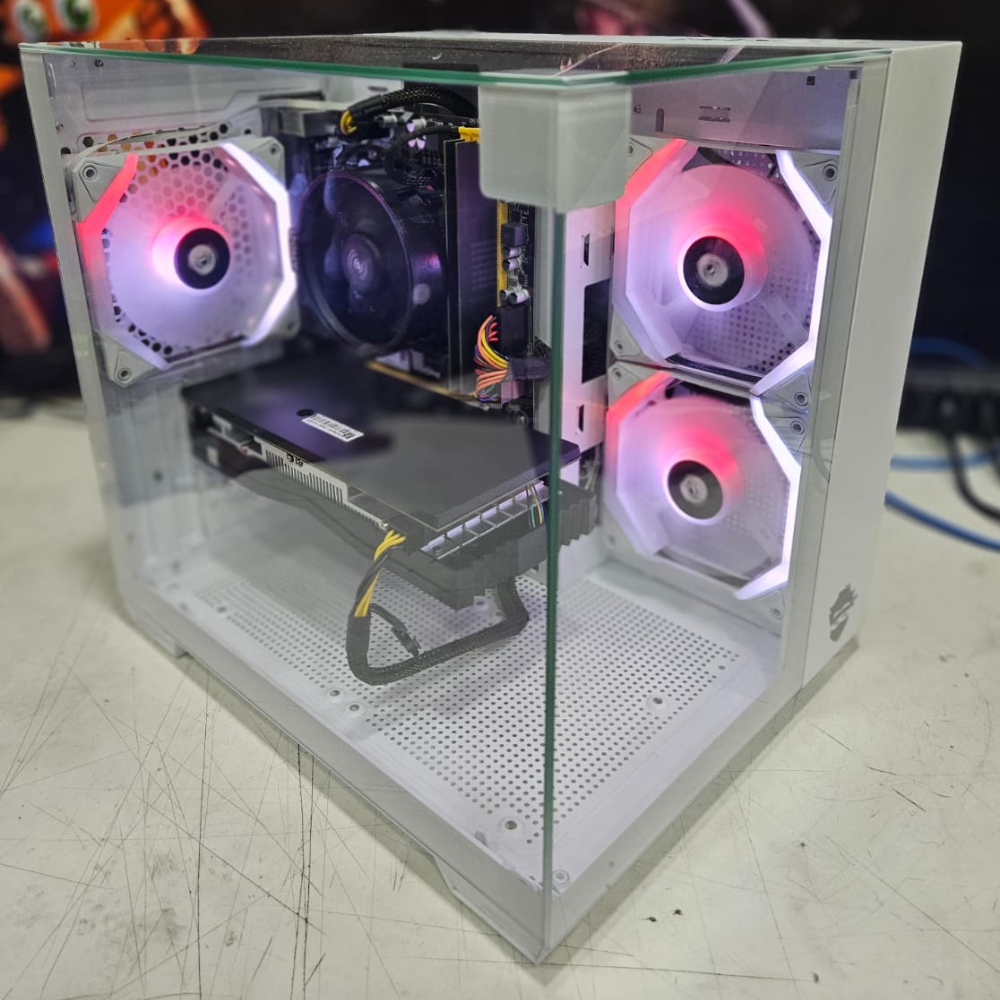
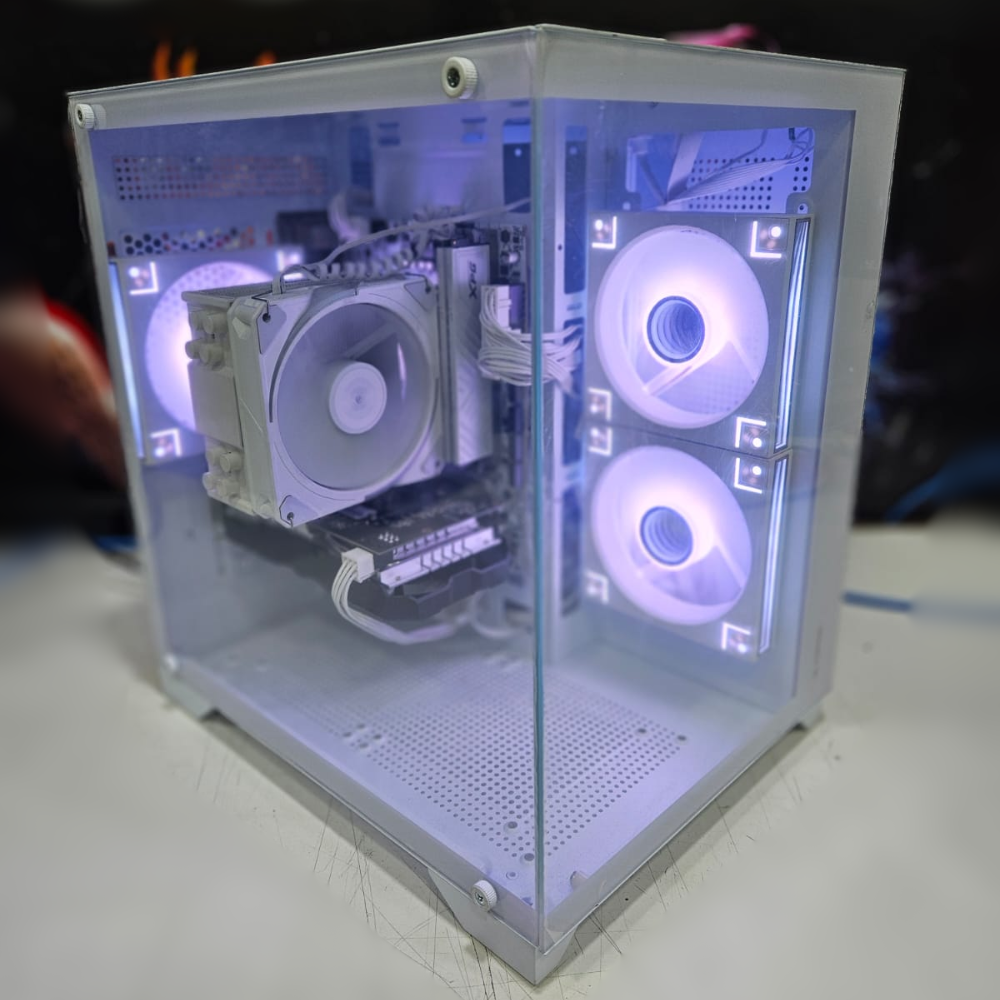
PC Custom WHITE UPDATED

diff --git a/src/routes/pcCustom/+page.svelte b/src/routes/pcCustom/+page.svelte
@@ -6,7 +6,7 @@
     {
       title: "PC AQUÁRIO NINJA BRANCO RYZEN 5500 + RX 580",
       image: "CUSTOM4690.png",
-      text: "*Máquina ideal para Jogos como:* \n🚔 GTA 5/RP\n🚗 FORZA HORIZON\n🔫 VALORANT\n🔫 WARZONE\n🔫 CS2\n🦙 FORTNITE\n\n*Processador:* RYZEN 5 5500\n*Placa Mãe:* A520 REVENGER\n*Memória RAM:* 2x8(16GB) 3200MHZ FNX DDR4\n*Placa de Vídeo:* RX 580 8GB\n*Armazenamento:* SSD NVME 500GB PRODRIVE\n*Gabinete:* 'AQUARIO' NINJA BRANCO C/3 FANS RGB\n*Fonte:* 500W FORTREK\n\nPOR APENAS *R$ 4.690,00* em até 10x sem juros!\n\n*Formas de Pagamento:*\n💳 Cartão - Débito à vista ou Crédito em até 10x *SEM JUROS*\n❖ Pix á Vista\n❌ NÃO aceitamos pagamento via boleto bancário\n❌ NÃO geramos link de pagamento\n\n",
+      text: "*Máquina ideal para Jogos como:* \n🚔 GTA 5/RP\n🚗 FORZA HORIZON\n🔫 VALORANT\n🔫 WARZONE\n🔫 CS2\n🦙 FORTNITE\n\n*Processador:* RYZEN 5 5500\n*Placa Mãe:* B550ZGS DUEX\n*Memória RAM:* 2x8(16GB) 3200MHZ XPG BRANCA DDR4\n*Cooler:* PCYES FROST PULSE ARGB WHITE GHOST\n*Placa de Vídeo:* RX 580 8GB\n*Armazenamento:* SSD NVME 500GB PRODRIVE\n*Gabinete:* 'AQUARIO' NINJA BRANCO C/3 FANS RGB\n*Fonte:* 500W FORTREK BRANCA\n\nPOR APENAS *R$ 5.490,00* em até 10x sem juros!\n\n*Formas de Pagamento:*\n💳 Cartão - Débito à vista ou Crédito em até 10x *SEM JUROS*\n❖ Pix á Vista\n❌ NÃO aceitamos pagamento via boleto bancário\n❌ NÃO geramos link de pagamento\n\n",
     },
 
     // R$ 4.790,00
